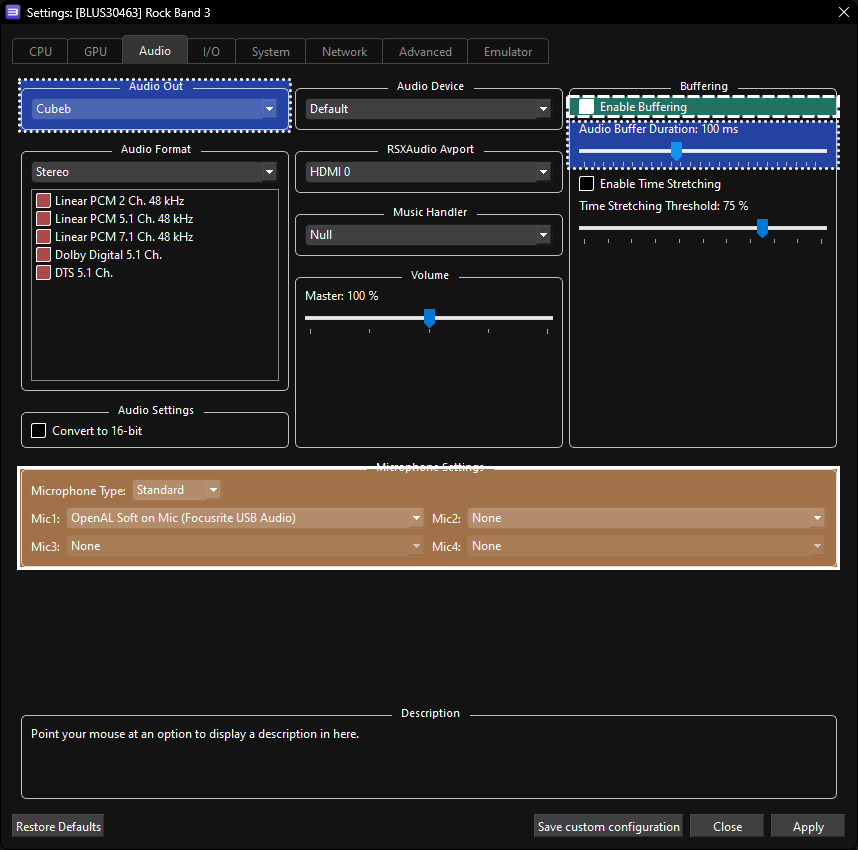
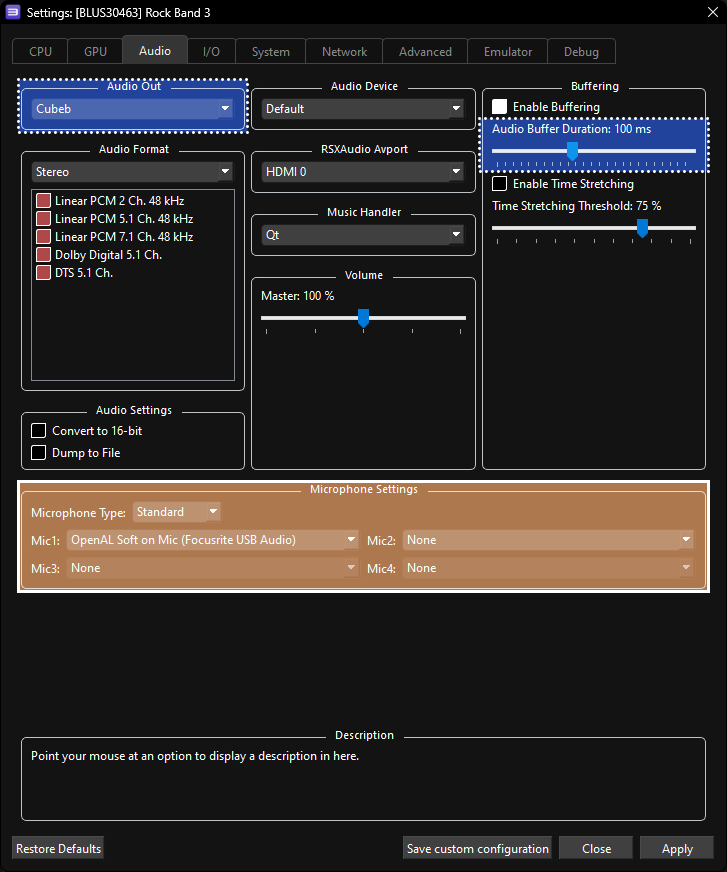
English Improvements
- Removed "Enable Buffering" suggestion because the user should have that enabled by default regardless. If they disabled it, they are not following the guide and are on their own.
- Various grammatical errors have been fixed.
- Fixed a few URLs.

diff --git a/_english/customconfiguration.md b/_english/customconfiguration.md
@@ -35,7 +35,7 @@ We'll go tab by tab, starting with:
 ![A screenshot of Rock Band 3's CPU custom settings, showing SPU XFloat Accuracy, SPU Block Size, Preferred SPU Threads, and Thread Scheduler highlighted in blue with a dotted outline.](https://raw.githubusercontent.com/hmxmilohax/rb3-pc/main/assets/images/cust/cpu.png "CPU")
 
 * ![A blue square with a dotted outline.](https://raw.githubusercontent.com/hmxmilohax/rb3-pc/main/assets/images/cust/smallblue.png "Tan Square") **Improved performance, depending on machine**: 
-	* **Change "SPU Block Size" to "Mega"** - Ties smaller SPU compiled together, which requiring fewer cores/threads. Drastically speeds up game startup time on certain machines.
+	* **Change "SPU Block Size" to "Mega"** - Ties smaller SPU compiled together, which can help machines with fewer cores/threads. Drastically speeds up game startup time on certain machines.
 	* **Change "Preferred SPU Threads" to "1", "2", "3", or "4"** - May help prevent stutter caused by CPU overloads on systems with fewer cores/threads. **Start at 4 and lower it one by one until it improves**.
 	* **Change "Thread Scheduler" to "RPCS3 Scheduler", or "RPCS3 Alternative Scheduler"** - **FOR CPUs WITH 12+ THREADS ONLY!** May help with thread distribution to prevent microstutters.
 
@@ -54,19 +54,19 @@ We'll go tab by tab, starting with:
 		* Set it to "Off" to use higher VBlank Frequencies, which may introduce jitter, **or if you're using VSync.**
 		* Set it to 60 if you want a locked 60 FPS framerate (redundant with 60 Hz Vblank). 
 		* Auto will use default RPCS3 settings.
-		* It is suggested to use your graphics driver's settings or software like MSI Afterburner to cap your framerate instead.
+		* It is suggested to use your graphics driver's settings or software like MSI Afterburner to limit your framerate instead.
 		* Adjusting the frame rate to be higher than 60 exponentially uses more resources, so this is not recommended for low end machines.
 		* Be aware that framerates higher than 60 may cause the vocal pitch detection to behave incorrectly.
 	* **Change "ZCULL Accuracy" to "Relaxed"** - Provides a slight performance improvement but may cause graphical anomalies in very rare situations.
 	* **Adjust "Resolution Scale"** to preference and to what your computer can handle. Increase for sharper graphics at the cost of higher GPU requirements. This forces the game to run at this resolution. Lowering this below 100% isn't worth it as it won't give much, if any, framerate gains.
-	* **Adjust "Output Scaling"** to preference and to what your computer can handle. This affects how the game is "blown up" in size when fitting to your monitor's native resolution. Helpful for those keeping Resolution Scale (mentioned above) at 100% and playing on a monitor larger than 1280x720.
-		* "Nearest" is completely unfiltered and gives you raw unmodified image. This can cause the game to look pixelated.
-		* "Bilinear" uses smoothing to scale the image up. This may cause the game to look blurry. This can cause the game to look blurry.
+	* **Adjust "Output Scaling"** to preference and to what your computer can handle. This affects how the game is "blown up" in size when fitting to your monitor's native resolution. Helpful for those keeping Resolution Scale (mentioned above) at 100% while playing on a monitor larger than 1280x720.
+		* "Nearest" is completely unfiltered and gives you a raw unmodified image. This can cause the game to look pixelated.
+		* "Bilinear" uses smoothing to scale the image up. This may cause the game to look blurry.
 		* FidelityFX Super Resolution (FSR) uses complicated math to sharpen and enhance the image when it gets blown up to your monitor's resolution. This can create odd artifacts in some instances.
 			* You can use "RCAS Sharpening Strength" below to adjust the strength of its effect.
 
 	* ![A tan square with a solid outline.](https://raw.githubusercontent.com/hmxmilohax/rb3-pc/main/assets/images/cust/smalltan.png "Tan Square") **For high-end GPUs and advanced users**: 
-		* **Change "Default Resolution" to "1920x1080"**. While Rock Band 3 officially caps out at 720p, 1080p can be forced on by manually editing the configuration file or editing the game data configuration. Please refer to [the relevant guide on how to do this and what benefits there are](forcefullhd.md) after finishing up with everything else.
+		* **Change "Default Resolution" to "1920x1080"**. While Rock Band 3 officially caps out at 720p, 1080p can be forced on by manually editing the configuration file or editing the game data configuration. Please refer to [the relevant guide on how to do this and what benefits there are](https://hmxmilohax.github.io/rb3-pc/english/advancedstuff/#intro-2) after finishing up with everything else.
 
 <br/>
 
@@ -74,16 +74,13 @@ We'll go tab by tab, starting with:
 
 ![A screenshot of Rock Band 3's Audio custom settings, highlighting Enable Buffering in green with a dashed outline, Audio Buffer and Audio Out highlighted in blue with a dotted outline, and Microphone Settings, Microphone Type (Standard), Mic1, Mic2, Mic3, and Mic4 highlighted in tan with a solid outline.](https://raw.githubusercontent.com/hmxmilohax/rb3-pc/main/assets/images/cust/audio.png "Audio")
 
-* ![A green square with a dashed outline.](https://raw.githubusercontent.com/hmxmilohax/rb3-pc/main/assets/images/cust/smallgreen.png "Green Square") **REQUIRED**: 
-	* **Enable "Enable Buffering"** - Absolutely required by Rock Band 3. It should be enabled by default but if it's disabled, re-enable it. You should set your global settings to default while you're at it because you should've done that to begin with.
-
 * ![A blue square with a dotted outline.](https://raw.githubusercontent.com/hmxmilohax/rb3-pc/main/assets/images/cust/smallblue.png "Blue Square") **Tweak depending on audio hardware and CPU**: 
 	* **Adjust "Audio Buffer Duration"** depending on system.
 		* Lower values give you less audio latency but use more CPU.
 		* Higher values give you more audio latency but use less CPU.
 		* Vocalists are affected the most by this, as a higher latency creates a distracting echo. Instrument players can use calibration to compensate regardless of audio buffer setting.
 		* You can change this while the game is running, but it will require re-calibrating in Rock Band 3's system settings.
-	* **Change "Audio Out" to "XAudio2"** - This is only recommended for users on extremely low end machines as it causes weird audio problems overtime. Experiment with this setting to make sure it actually helps on your end. **Most users should stay on Cubeb!**
+	* **Change "Audio Out" to "XAudio2"** - While **most users should stay on Cubeb**, a couple of people have experienced better performance with XAudio2. Your milage may vary
 
 * ![A tan square with a solid outline.](https://raw.githubusercontent.com/hmxmilohax/rb3-pc/main/assets/images/cust/smalltan.png "Tan Square") **For Vocalists**: 
 	* **Set Microphone type to Standard or Rocksmith**.
@@ -94,11 +91,11 @@ We'll go tab by tab, starting with:
 
 ## I/O
 
+### Intro
+
 **This section is for people playing with USB/MIDI Keyboards, Pro Guitars, or MIDI Drums!**
 * **If you're not playing with a wired Pro Guitar, Pro Drums, or a USB/MIDI keyboard,** [[**skip** over **this section**].](#network)  
 * **If you're playing with a PS3 Rock Band 3 Keyboard or wireless PS3 Mustang Pro Guitar,** [[**skip** over **this section**].](#network)  
-
-### Intro
 
 **If your keyboard has a USB port**, all you need to do is **plug it into your computer**.  
 ![A picture of a MIDI controller's back, showing a USB port and a sustain pedal](https://raw.githubusercontent.com/hmxmilohax/rb3-pc/main/assets/images/midi/usbkeys.png "USB Keyboard")  
@@ -121,10 +118,10 @@ Here's an example of a MIDI to USB interface. Most will come with an LED indicat
 **If everything's connected**, let's go ahead and **focus on RPCS3's I/O tab.**
 **YOU MAY HAVE TO MAKE THE WINDOW WIDER TO READ THE OPTIONS!**
 ![A screenshot of Rock Band 3's I/O custom settings, showing Emulated MIDI Devices, device type, and device selection highlighted in tan with a solid outline, and Pad Handler Mode highlighted in blue with a dotted outline.](https://raw.githubusercontent.com/hmxmilohax/rb3-pc/main/assets/images/cust/io.png "I/O")
-* ![A tan square with a solid outline.](https://raw.githubusercontent.com/hmxmilohax/rb3-pc/main/assets/images/cust/smalltan.png "Tan Square") **For third party Keyboard and wired Pro Guitar players**: 
+* ![A tan square with a solid outline.](https://raw.githubusercontent.com/hmxmilohax/rb3-pc/main/assets/images/cust/smalltan.png "Tan Square") **For third party Keyboard, wired Pro Guitar, and Pro Drums players**: 
 	* 🎹 **Keyboard Players: Leave your "Emulated MIDI type" on "Keyboard" and select your keyboard or MIDI interface in the drop-down menu next to it.**.
 	* 🎸 **Pro Guitar Players: Change your "Emulated MIDI type" from "Keyboard" to "Guitar (17 Frets)" if you have a Mustang Pro Guitar, or "Guitar (22 Frets)" if you have a Squier Pro Guitar, then select your MIDI to USB interface in the drop-down menu next to it**.
-	* 🎸 🥁 **Pro Drums Players: Change your "Emulated MIDI type" from "Keyboard" to "Drums", then select your MIDI Electronic Drum Kit or MIDI to USB interface in the drop-down menu next to it**.
+	* 🥁 **Pro Drums Players: Change your "Emulated MIDI type" from "Keyboard" to "Drums", then select your MIDI Electronic Drum Kit or MIDI to USB interface in the drop-down menu next to it**.
 
 Visit the instrument repo if you're using a [[Xbox 360]](https://github.com/hmxmilohax/rb3-pc/tree/main/instrument-repo/Xbox%20360%20Rock%20Band%203%20Keyboard#readme) or a [[Nintendo Wii]](https://github.com/hmxmilohax/rb3-pc/tree/main/instrument-repo/Wii%20Rock%20Band%20Keyboard#readme) Rock Band 3 Keyboard connected via MIDI to USB. Also visit the instrument repo if you're on a [[MIDI Drum Kit]](https://github.com/hmxmilohax/rb3-pc/tree/main/instrument-repo/MIDI%20Drums#readme) and wish to adjust mappings.
 
@@ -135,7 +132,7 @@ Visit the instrument repo if you're using a [[Xbox 360]](https://github.com/hmxm
   
 ### Notes on MIDI Pro Guitars:
 
-Once again, Pro Guitars should work without any extra configuration **as long as your MIDI to USB interface supports SYSEX.** **The M-Audio Midisport Uno is recommended as it has been verified to work.**
+Pro Guitars should work without any extra configuration **as long as your MIDI to USB interface supports SYSEX.** **The M-Audio Midisport Uno is recommended as it has been verified to work.**
 
 ### Notes on MIDI Keyboards:
 
@@ -147,9 +144,9 @@ As **keyboards don't have PS3 buttons, the first octave is** reserved **for mapp
 You can adjust a variety of options in the `rb3drums.yml` file, located within the `config` folder inside your RPCS3 installation folder. You need to run the game once with your MIDI Drum kit assigned in the I/O tab for RPCS3 to create this file. Any changes require a game restart.
 
 **As drums don't have PS3 buttons, by default:
-	* START: Quickly lose the Hi-Hat three times then hit the Snare
-	* SELECT: Quickly lose the Hi-Hat three times then hit the Snare Rim
-	* Song select shortcuts: Quickly lose the Hi-Hat three times then press the Kick pedal**
+* START: Quickly close the Hi-Hat three times then hit the Snare
+* SELECT: Quickly close the Hi-Hat three times then hit the Snare Rim
+* Song select shortcuts: Quickly close the Hi-Hat three times then press the Kick pedal**
 If your drum kits have incompatible mapping, you can remap using `Midi id to note override: ""` with the corrected notes.
 * To do this:
 	* Go to [[MIDI Monitor]](https://www.midimonitor.com/)
@@ -206,10 +203,10 @@ In `rb3drums.yml`, you will find `Combo Start`, `Combo Select`, `Combo Toggle Ho
 * ![A blue square with a dotted outline.](https://raw.githubusercontent.com/hmxmilohax/rb3-pc/main/assets/images/cust/smallblue.png "Tan Square") **Depending on your computer**: 
 	* **Adjust VBlank Frequency** if you want a higher internal framerate. This can make it easier to hit notes but may cause graphical instability and connection issues while online. **It's best left alone** and not recommended to go above 75 Hz if adjusting it for online play. Increasing it exponentially uses more CPU and GPU.
 		* Once again, having a higher VBlank can cause issues with vocal detection.
-	* **Change "Maximum Number of SPURS Threads"** - May improve performance on systems with less cores and threads [[like 4th gen Intel i5 CPUs with 4 cores and 4 threads]](https://github.com/hmxmilohax/rb3-pc/issues/12#issue-1955946005).
+	* **Change "Maximum Number of SPURS Threads"** - May improve performance on older systems with less cores and threads [[like 4th gen Intel i5 CPUs with 4 cores and 4 threads]](https://github.com/hmxmilohax/rb3-pc/issues/12#issue-1955946005).
 
 * ![A tan square with a solid outline.](https://raw.githubusercontent.com/hmxmilohax/rb3-pc/main/assets/images/cust/smalltan.png "Tan Square") **Strongly Suggested**: 
-	* **Enable "Debug Console Mode"** - Enabling this and "Large Heap" in Rock Band 3 Deluxe will allow Rock Band 3  to have more memory. This means more songs (up to 16000) and increased stability. Everyone should have this enabled. [[Click here for more information.]](https://hmxmilohax.github.io/rb3-pc/espanol/advancedstuff#add-more-memory-to-rock-band-3)
+	* **Enable "Debug Console Mode"** - Enabling this and "Large Heap" in Rock Band 3 Deluxe will allow Rock Band 3  to have more memory. This means more songs (up to 16000) and increased stability. Everyone should enable this! [[Click here for more information.]](https://hmxmilohax.github.io/rb3-pc/espanol/advancedstuff#add-more-memory-to-rock-band-3)
 	* **Change "Exclusive Fullscreen Mode" to "Prefer borderless fullscreen"** to prevent potential crashes and audio desync when changing from Rock Band 3 to another program while in fullscreen.
 
 <br/>
@@ -224,7 +221,7 @@ You can leave this as is if you want, but I would consider changing the followin
 	* **“Show PPU compilation hint”** - This creates a popup whenever RPCS3 is compiling units for the PPU. This only comes up once as the "Recompiler (LLVM)" setting in the CPU tab does this when launching the game.
 	* **“Show shader compilation hint”** - This creates a popup whenever RPCS3 is compiling shaders. Whether you leave it on or not is up to you, but I should tell you what this means as it is important. When you run PS3 games, it has to compile shaders to “translate” the graphics from a PS3 format to a format your PC can work with. **The game will** appear to **stutter when this happens**. **This happens on ALL computer systems. When it finishes** compiling an effect, **it will usually never happen again**. **The best way to deal with this is** just **to** **play the game** as it will quickly go away. You can also use Rock Band 3 Deluxe's Autoplay modifier to let it go through a few songs in party shuffle and let it compile a decent amount of shaders.
 	* **“Start games in Fullscreen mode”** - Switches to Fullscreen when you start Rock Band 3.
-	* **“Use Native Interface”** - Removes the pretty displays RPCS3 adds, including notifications and game startup background. It will instead use old school pop-ups for keyboard prompts. This can also fix a problem with instrument controllers using MMJoystick soft locking the game when the keyboard comes up. The native interface also seems to cause slight frame rate drops.
+	* **“Use Native Interface”** - Removes the pretty displays RPCS3 adds, including notifications and game startup background. It will instead use old school pop-ups. This can also fix a problem with instrument controllers soft locking the game when the keyboard comes up. The native interface also seems to cause slight frame rate drops.
 
 <br/>
 

diff --git a/_english/installation.md b/_english/installation.md
@@ -6,7 +6,7 @@ category: English
 layout: post
 ---
 
-Before starting the installation process, **make sure your drivers and operating system are up to date**.
+Before you begin, **make sure your drivers and operating system are up to date**.
 
 ## Downloads
 
@@ -40,11 +40,10 @@ I would strongly suggest extracting the files into “C:\\Games\\RPCS3” or a s
 **Avoid installing to and running from an external drive or from a synced folder (Dropbox, OneDrive, etc.)**, as this usually leads to an unstable experience.  
 ![A screenshot of the Extract window from 7-zip. It shows the "Extract to" as C:\Games\RPCS3 and the box below it unchecked.](https://raw.githubusercontent.com/hmxmilohax/rb3-pc/main/assets/images/inst/extractdir.png "Extract")
 
-Once that's extracted, [**[download the PlayStation 3 system software from Sony's website]**](https://www.playstation.com/en-us/support/hardware/ps3/system-software/). **Scroll down** until you get **to** “**Update using a computer**”, **click that** to expand, **then click on “Download PS3 Update.**”  
+Once that's extracted, [**[download the PlayStation 3 system software from Sony's website]**](https://www.playstation.com/en-us/support/hardware/ps3/system-software/). **Scroll down** until you get **to** “**Update using a computer**.” **Click that** to expand, **then click on “Download PS3 Update.**”  
   
 _**If you're using a Chromium-based browser like Chrome or Edge, MAKE SURE YOU RIGHT-CLICK AND “Save link as,” or your download MAY become stuck.**_
 
-Once again, the picture below links to the download page.
 [![A screenshot of Sony's "How to update PS3 console system software" page with the "Update using a computer" subcategory expanded.](https://raw.githubusercontent.com/hmxmilohax/rb3-pc/main/assets/images/inst/fwpage.png)](https://www.playstation.com/en-us/support/hardware/ps3/system-software/ "How to update PS3 console system software")
 
 ## Initializing
@@ -69,15 +68,15 @@ Now, **go to the folder where you extracted RPCS3.** Keep this folder open in th
 It will start compiling modules to load the PS3 XMB into the emulator, which may take a few minutes. **You can either let it do its thing or close it.**  
 ![A screenshot of RPCS3 compiling PPU modules with a progress bar at 1/8th completion.](https://raw.githubusercontent.com/hmxmilohax/rb3-pc/main/assets/images/inst/rpcs3fwcomp.png "Compiling PPU modules...")
 
-Next, **open a new file browser window and go to the folder where you have your copy of Rock Band 3 stored and drag the folder into RPCS3's "games" folder**. Again, you're on your own when it comes to finding a copy. [[I used “PS3 Disc Dumper” for this because it's the easiest way]](https://youtu.be/mRxSKxoYt_g).
+Next, **open a new file browser window. Now go to the folder where you have your copy of Rock Band 3 stored and drag the folder into RPCS3's "games" folder**. Again, you're on your own when it comes to finding a copy. [[I used “PS3 Disc Dumper” for this because it's the easiest way]](https://youtu.be/mRxSKxoYt_g).
 
 ![A GIF of the dumped folder of Rock Band 3 being dragged into RPCS3's "games" folder.](https://raw.githubusercontent.com/hmxmilohax/rb3-pc/main/assets/images/inst/rpcs3rb3dnd.gif "Rock Band 3 [BLUS30463]")
 
-After dragging it in, click "Refresh" in RPCS3. This should make Rock Band 3 appear in your library.  
+After dragging it in, click "Refresh" in RPCS3.
 
 ![A GIF of "Refresh" being clicked in RPCS3, which updates it to display Rock Band 3 in the game list.](https://raw.githubusercontent.com/hmxmilohax/rb3-pc/main/assets/images/inst/rpcs3refresh.gif "Rock Band 3 [BLUS30463]")
 
-Rock Band 3 is now in your game library in RPCS3, but it's not quite ready yet. Next, go get [**[*Rock Band 3 Deluxe*]**](https://rb3dx.neocities.org/).
+After Rock Band 3 appears in your library, go get [**[*Rock Band 3 Deluxe*]**](https://rb3dx.neocities.org/).
 
 This is a must-have mod, which also fixes some critical bugs RPCS3 has with Rock Band 3. On top of that, it adds [**[many great features]**](https://rb3dx.neocities.org/features).
 

diff --git a/_english/controllers.md b/_english/controllers.md
@@ -11,7 +11,7 @@ layout: post
 **This section is for standard guitar controls, standard drums, and Xbox 360/Wii Pro Drums.**  
 Pro Guitars and/or Keyboards are set up later.
 
-If you're playing with a single instrument controller, consider the [[Instrument Repo]](https://hmxmilohax.github.io/rb3-pc/instruments/intro) which has easy drag and drop profiles for various rhythm game instruments.
+If you're playing with a single instrument controller, consider visiting the [[Instrument Repo]](https://hmxmilohax.github.io/rb3-pc/english/instrumentrepo/), which has easy drag and drop profiles for various rhythm game instruments.
 
 If not, keep reading.
 
@@ -30,13 +30,11 @@ Below are the buttons you should map in RPCS3's Gamepad Settings.
 
 # Guitars  
 
-Make sure you **set “Device Class” to “Guitar”.**
-
-**Switch the drop-down menu next to it to "Rock Band" if you're using a Rock Band guitar or leave it on “Guitar Hero” if you're using a Guitar Hero guitar**. 
-
 * If you're using PS2 (Guitar Hero), PS3 (Guitar Hero), or Wii guitars, set the “Handlers” option to “MMJoyStick.” 
 * If you're using Xbox 360 guitar controllers, set the “Handlers” option to “XInput.”
 
+Make sure you **set “Device Class” to “Guitar”.**  
+**Switch the drop-down menu next to it to "Rock Band" if you're using a Rock Band guitar or leave it on “Guitar Hero” if you're using a Guitar Hero guitar**. 
  
 **Some guitar controllers** (most notably Guitar Hero controllers) misbehave and **refuse to map sometimes. If you try mapping a button and get “U+”, click “Filter Noise"** at the bottom left of the controller configuration window **then try mapping**.
 
@@ -61,14 +59,12 @@ Make sure you **set “Device Class” to “Guitar”.**
 
 # Drums
 
-Make sure you **set “Device Class” to “Drum”.**
-
 * If you're using PS3 (Guitar Hero), Wii, or Xbox 360 drum controllers, set the “Handlers” option to “MMJoyStick.”
 * If you're using a Xbox 360 MIDI Pro Adapter for drums, set the "Handlers" option to "XInput."
 
-**Switch the drop-down menu next to it to "Rock Band Pro" if you're using Rock Band drums or Rock Band Drums with Pro expansions. Do **NOT** use the regular "Rock Band" type. Leave it on “Guitar Hero” if you're using Guitar Hero drums.**
+Make sure you **set “Device Class” to “Drum”.**
 
-If you're using a 360 MPA with a drum kit, please ask [**[the Milohax discord]**](https://rb3dx.neocities.org/discord) for the mapping as they know more about this.
+**Switch the drop-down menu next to it to "Rock Band Pro" if you're using Rock Band drums or Rock Band Drums with Pro expansions. Do **NOT** use the regular "Rock Band" type. Leave it on “Guitar Hero” if you're using Guitar Hero drums.**
 
 | **RPCS3**    | **Rock Band Drums** | **Guitar Hero Drums** |
 |:--------:|:-------------------:|:-----------------:|

diff --git a/_english/conclusion.md b/_english/conclusion.md
@@ -28,13 +28,13 @@ You can [**\[join RBEnhanced's Discord here\]**](https://discord.gg/6rRUWXPYwb).
 
 Special thanks to:
 
-*   [Dark](https://dark.ski/), [Linos](https://www.youtube.com/@LinosMelendi), [Jnack](https://www.youtube.com/@jnackmclain), [[lunalawl]](https://github.com/lunalawl), [Hughtobasic](https://www.youtube.com/@thisisRK), [ihatecompvir](https://www.youtube.com/@ihatecompvir1591), and [LysiX](https://www.youtube.com/@LysiX) for technical information regarding RPCS3 and/or Rock Band 3.
+*   [[Dark]](https://dark.ski/), [[Linos]](https://www.youtube.com/@LinosMelendi), [[Jnack]](https://www.youtube.com/@jnackmclain), [[lunalawl]](https://github.com/lunalawl), [[Hughtobasic]](https://www.youtube.com/@thisisRK), [[ihatecompvir]](https://www.youtube.com/@ihatecompvir1591), and [[LysiX]](https://www.youtube.com/@LysiX) for technical information regarding RPCS3 and/or Rock Band 3.
 *	[[KaijuChomps]](https://github.com/KaijuChomps) for helping with Jekyll and GitHub Pages.
-* [knvtva](https://github.com/knvtva) for running and maintaining AshCentral, the best way to play Rock Band 3 online.
-*   [qfoxb](https://github.com/qfoxb), [SlothDemon](https://www.youtube.com/@SlothDemon1991), [Jnack](https://www.youtube.com/@jnackmclain) (tested for nearly 50 hours lmao), [knvtva](https://github.com/knvtva), and 1osks for testing and reporting results.
+* [[knvtva]](https://github.com/knvtva) for running and maintaining AshCentral, the best way to play Rock Band 3 online.
+*   [[qfoxb]](https://github.com/qfoxb), [[SlothDemon]](https://www.youtube.com/@SlothDemon1991), [[Jnack]](https://www.youtube.com/@jnackmclain) (tested for nearly 50 hours lmao), [knvtva](https://github.com/knvtva), and 1osks for testing and reporting results.
 *   SlothDemon1991, gonakil1ya, GamerPerson22, Vex, Trish, ItzSlicedcorn/Vivian, and Linos for helping set up scenarios for tutorial pictures.
-*   RPCS3 Wiki for initial information on controllers and USB passthrough.
-*   [TheNathannator's](https://github.com/TheNathannator) [PlasticBand GitHub](https://github.com/TheNathannator/PlasticBand) for even better documentation on controllers.
+*   [[RPCS3 Wiki]](https://wiki.rpcs3.net/index.php?title=Main_Page) for initial information on controllers and USB passthrough.
+*   [[TheNathannator's]](https://github.com/TheNathannator) [[PlasticBand GitHub]](https://github.com/TheNathannator/PlasticBand) for even better documentation on controllers.
 
 
 [![Creative Commons License](https://i.creativecommons.org/l/by-sa/4.0/88x31.png)](http://creativecommons.org/licenses/by-sa/4.0/)  

diff --git a/_english/troubleshooting.md b/_english/troubleshooting.md
@@ -14,7 +14,7 @@ layout: post
 *   **_General performance issues_**
 	*	Set your computer to the [[High Performance power plan]](https://help.ableton.com/hc/en-us/articles/115000211304-Using-the-High-performance-power-plan-Windows-).
 	*   Go back to the [[Custom Configuration setup section]](https://hmxmilohax.github.io/rb3-pc/english/customconfiguration#changing-a-custom-configuration) and apply suggested low performance tweaks.
-	*   Install [[Rock Band 3 Deluxe]](https://rb3dx.neocities.org/) and disable Post Effects in Deluxe Settings.
+	*   Disable Post Effects in Deluxe Settings.
 	*	If you motherboard has a Realtek audio, try [[installing the latest driver]](https://realtek-download.com/download-hd/). This is a [[known issue]](https://github.com/RPCS3/rpcs3/issues/14648) where using the default "High Definition Audio" driver doesn't use all threads.
 	*	Close out the dedicated Discord client and open it up in your browser or on your phone. You can also try an alternative Discord client [[like Vesktop]](https://github.com/Vencord/Vesktop), but I claim no responsibility for your Discord account.
 
@@ -58,6 +58,7 @@ layout: post
 	*   Your router may have issues with RPCS3's UPNP feature. Go to Rock Band 3's Custom Configuration [[Network section]](https://hmxmilohax.github.io/rb3-pc/english/customconfiguration#network), and disable "Enable UPNP." You will need to [[search how to port forward in your router]](https://www.noip.com/support/knowledgebase/general-port-forwarding-guide).
 
 *   **_\[ONLINE\] "I'm stuck on “Registering Account” when trying to connect to online servers."_**
+	*   Make sure you have copied the correct settings in the Rock Band 3's [[Network]](https://hmxmilohax.github.io/rb3-pc/english/customconfiguration#network) configuration.
 	*   You may have lost connection to RPCN  and will have to restart the game. If you continue to get this after restart, close out Rock Band 3, go to the top menu in RPCS3, “Configuration” > “RPCN” > “Account” > “Test Account” then restart the game to force a reconnection.
  
 *   **_\[ONLINE\] "I keep disconnecting constantly while playing online."_**

diff --git a/_english/requirements.md b/_english/requirements.md
@@ -11,15 +11,16 @@ You will need:
 * _An instrument controller. You can use:_
 	*   _Any Rock Band and Guitar Hero Guitar (PS2, PS3, Wii, X360, XBONE, XSS/X)_<sup>a
 	*   _Any Rock Band and Guitar Hero Drums (PS3, Wii, X360, XBONE, XSS/X)_<sup>b
+	*   _A standard controller for "Padtar" (just about any controller)_<sup>b
 	*   _Rock Band 3 MIDI Pro Adapter and a compatible MIDI guitar, and MIDI keyboard (PS3 version only)_<sup>c
 	*   _Rock Band 3 MIDI Pro Adapter and a compatible MIDI drum kit (PS3, Wii, X360)_<sup>c
 	*   _Rock Band 3 Keyboard (PS3 version via dongle only)_<sup>c
-	*   _Rock Band 3 Fender Mustang PRO-Guitars \[**Wireless**\] (PS3 version via dongle only)_<sup>c
-	*   _Rock Band 3 Fender Mustang PRO-Guitars \[**Wired**\] (PS3, Wii, X360 via MIDI to USB adapter)_
-	*   _Rock Band 3 Squier Stratocaster PRO-Guitars (PS3, Wii, X360 via MIDI to USB adapter)_
-	*   _Any MIDI Keyboards (**37 keys minimum** via USB or MIDI to USB adapter)_<sup>d 
-	*   _MIDI Drum Kits (via USB or MIDI to USB adapter, or via MIDI to Roll Limitless)_
-	*   _Microphones (game can be controlled with most game controllers or typing keyboard when playing as a vocalist)_
+	*   _Rock Band 3 Fender Mustang PRO Guitar \[**Wireless**\] (PS3 version via dongle only)_<sup>c
+	*   _Rock Band 3 Fender Mustang PRO Guitar \[**Wired**\] (PS3, Wii, X360 via MIDI to USB adapter)_
+	*   _Rock Band 3 Squier Stratocaster PRO Guitar (PS3, Wii, X360 via MIDI to USB adapter)_
+	*   _Any MIDI Keyboard (**37 keys minimum** via USB or MIDI to USB adapter)_<sup>d 
+	*   _MIDI Electronic Drum Kit (via USB or MIDI to USB adapter, or via MIDI to Roll Limitless)_
+	*   _A microphone (game can be controlled with most game controllers or typing keyboard when playing as a vocalist)_
 *   _A computer_
 	* Minimum:
 		* OS: Windows 10

diff --git a/_english/rpcn.md b/_english/rpcn.md
@@ -26,12 +26,12 @@ Enter a **username** and **password**:
 You will be prompted for an **email address** so you can receive a **verification token**:  
 ![A screenshot of RPCS3's RPCN: Email menu with an email (twice for verification) set and "OK" highlighted](https://raw.githubusercontent.com/hmxmilohax/rb3-pc/main/assets/images/rpcn/email.png "RPCN: Email")  
 
-You will next be asked to confirm your account's creation. **Click “Yes”**.
+Next, you will be asked to confirm your account's creation. **Click “Yes”**.
 
 ![A screenshot of RPCS3's RPCN: Account Creation popup, asking the user if they're ready to create their account, with "Yes" highlighted](https://raw.githubusercontent.com/hmxmilohax/rb3-pc/main/assets/images/rpcn/confirm.png "RPCN: Account Creation")
 
-Now go to your email inbox to check for your verification token. You may have to wait a few minutes to get it. If you're still waiting, check your spam inbox. The email will be called **“Your token for RPCN.”  
-Copy the token**:
+Now **go to your email inbox to check for your verification token. The email will be called “Your token for RPCN”** You may have to wait a few minutes to get it. If you're still waiting, check your spam inbox.  
+**Copy the token**:
 
 ![A screenshot of an email labeled "Your Token for RPCN" with a token below what username it's for](https://raw.githubusercontent.com/hmxmilohax/rb3-pc/main/assets/images/rpcn/emailtoken.png "Your token for RPCN")
 

diff --git a/_english/intro.md b/_english/intro.md
@@ -7,12 +7,12 @@ layout: post
 cover: https://raw.githubusercontent.com/hmxmilohax/rb3-pc/main/assets/images/banners/rb3dx.png
 ---
 
-Versión Vídeo en Ingles (no actualizada):  
-[![Una mini-imagen de la versión vídeo de esta guía.](https://raw.githubusercontent.com/hmxmilohax/rb3-pc/main/assets/images/xtra/vidthumb.jpg)](https://www.youtube.com/watch?v=sramU-Xdhrs "How to play Rock Band 3 on PC (with RPCS3) - YouTube")
+Video Version **[OUTDATED]**:  
+[![A thumbnail for the video version of this guide.](https://raw.githubusercontent.com/hmxmilohax/rb3-pc/main/assets/images/xtra/vidthumb.jpg)](https://www.youtube.com/watch?v=sramU-Xdhrs "How to play Rock Band 3 on PC (with RPCS3) - YouTube")
 
 <br/>
 
 > ##### WARNING
 >
-> _This tutorial will **not** provide you with a download to the game or DLC. None of the Discord servers listed will provide you with them, either. Make a backup of your own copy or Google for help. **Piracy is illegal and attracts Tim Sweeney's lawyers**._
+> _This tutorial will **not** provide you with a download to the game or DLC. None of the Discord servers listed will provide you with them, either. Make a backup of your own copy or Google for help. **Piracy is illegal and attracts Tim Sweeney's lawyers**!_
 {: .block-warning  }

diff --git a/_english/ashcentral.md b/_english/ashcentral.md
@@ -8,9 +8,9 @@ layout: post
 
 ## Intro
 
-**If you're not interested in playing online, skip to the [[next section]](https://hmxmilohax.github.io/rb3-pc/english/passthroughdevices/).**
+**If you're not interested in playing online or on AshCentral, skip to the [[next section]](https://hmxmilohax.github.io/rb3-pc/english/passthroughdevices/).**
 
-This part of the guide **requires** that you have an [[**RPCN Account**]](https://hmxmilohax.github.io/rb3-pc/english/rpcn/) **and set your [[network configuration]](https://hmxmilohax.github.io/rb3-pc/english/customconfiguration#network) to use AshCentral server settings.**
+This part of the guide **requires** that you have a [[**RPCN Account**]](https://hmxmilohax.github.io/rb3-pc/english/rpcn/) **and set your [[network configuration]](https://hmxmilohax.github.io/rb3-pc/english/customconfiguration#network) to use AshCentral server settings.**
 
 AshCentral is currently hosts the best experience for playing Rock Band 3 online. This part will be going over how to get the most out of your experience while playing online.
 

diff --git a/_english/quickconfiguration.md b/_english/quickconfiguration.md
@@ -36,7 +36,7 @@ If you need any more information about what these settings are changing:
 		- Audio Buffer Duration: 32 ms
 	- **Network**:
 		- Network Status: Connected
-		- AshCentral IP/Hosts Switches
+		- DNS: Configured for AshCentral
 		- Enable UPNP: On
 	- **Advanced**:
 		- Debug Console Mode: On
